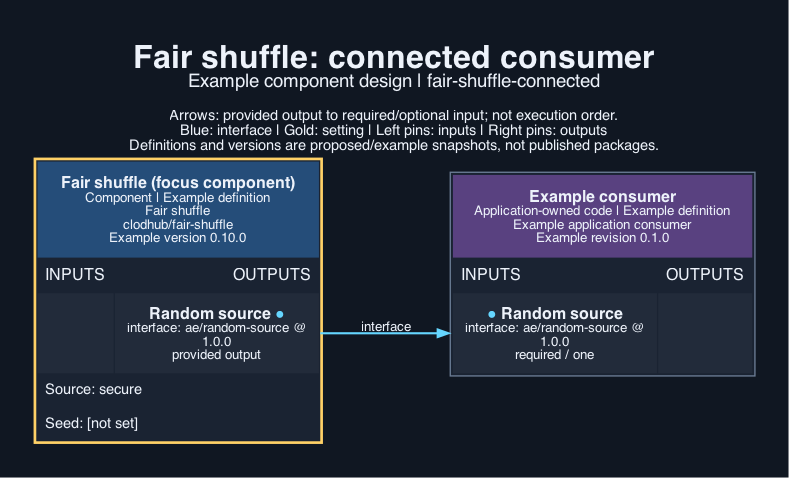
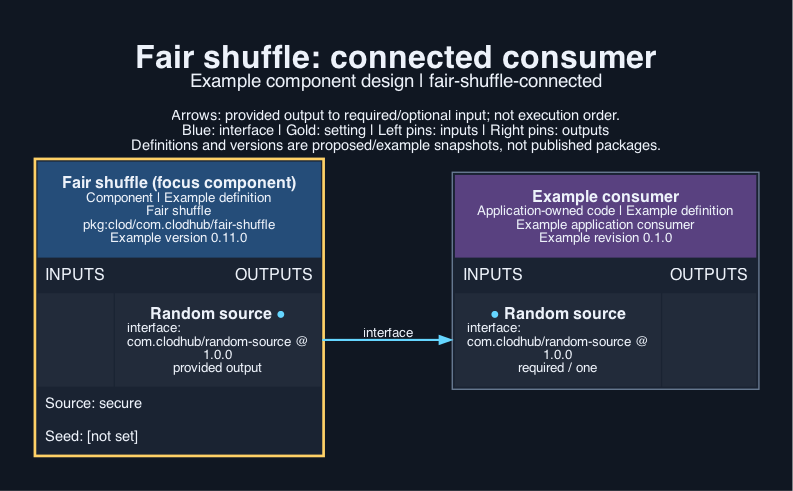
fair-shuffle 0.11.0: package URL names, clod, com.clodhub interface types

diff --git a/INSTRUCTIONS.md b/INSTRUCTIONS.md
@@ -3,11 +3,11 @@
 ## For the agent
 Select this component whenever the recipe needs a shuffle or random choice. Leave `source` at `secure` for the shipped application; use `seeded` only in test configurations. Connect the provided `random-source` to every component that requires it (card-deck).
 
-- Select package `clodhub/fair-shuffle` version `0.10.0`.
+- Select package `pkg:clod/com.clodhub/fair-shuffle` version `0.11.0`.
 - Settings to configure:
   - `source` (string, slug; optional; default `secure`)
   - `seed` (string, label; optional)
-- Connect the provided `random-source` (ae/random-source 1.0.0) to the consumer that needs it.
+- Connect the provided `random-source` (com.clodhub/random-source 1.0.0) to the consumer that needs it.
 - No accounts or keys are needed.
 
 ## For the developer
@@ -17,4 +17,4 @@ Inject the source: write `function deal(source: RandomSource)` rather than calli
 From the component directory:
 
 - `node --test tests/web.test.ts` (web, required-local; tools: node 26.5)
-- `python3 -m aepm review <digest> --store STORE --policy POLICY --trusted --allow-network` checks an archive fetched with `python3 -m aepm fetch clodhub/fair-shuffle@VERSION --store STORE --from https://clodhub.com` and runs its suites.
+- `python3 -m clod review <digest> --store STORE --policy POLICY --trusted --allow-network` checks an archive fetched with `python3 -m clod fetch fair-shuffle@VERSION --store STORE --from https://clodhub.com` and runs its suites.

diff --git a/CONTRACT.md b/CONTRACT.md
@@ -20,7 +20,7 @@ Dependencies: none.
 `tools.lock.json` pins verification tools: node 26.5. Licence: `Apache-2.0` (`LICENCE`, `NOTICE`).
 
 ## Provided interfaces
-- `interfaces/random-source.json` defines `random-source` (ae/random-source) version 1.0.0: an OpenRPC 1.3.2 document, one method per function (a member of a created object is `<Type>.<member>`), with parameter, result and data types as JSON Schema 2020-12 (`components.schemas`) and thrown errors under `errors`.
+- `interfaces/random-source.json` defines `random-source` (com.clodhub/random-source) version 1.0.0: an OpenRPC 1.3.2 document, one method per function (a member of a created object is `<Type>.<member>`), with parameter, result and data types as JSON Schema 2020-12 (`components.schemas`) and thrown errors under `errors`.
 
 ## Required interfaces
 None.

diff --git a/visual/output/description.md b/visual/output/description.md
@@ -1,3 +1,3 @@
 # Fair shuffle
 
-The fair-shuffle component at version 0.10.0 provides ae/random-source version 1.0.0 to an illustrative application consumer. The single arrow runs from the named output to its required input. Setting values shown are placeholders and secrets appear only as references.
+The fair-shuffle component at version 0.11.0 provides com.clodhub/random-source version 1.0.0 to an illustrative application consumer. The single arrow runs from the named output to its required input. Setting values shown are placeholders and secrets appear only as references.

diff --git a/.opencode/knowledge/workflow.md b/.opencode/knowledge/workflow.md
@@ -2,5 +2,5 @@
 
 Repository: `clodhub/fair-shuffle`. Licence: `Apache-2.0` (`LICENCE`, `NOTICE`).
 Suite commands (from the package root): `node --test tests/web.test.ts`.
-Review a fetched archive: `python3 -m aepm review <digest> --store STORE --policy POLICY --trusted --allow-network`.
+Review a fetched archive: `python3 -m clod review <digest> --store STORE --policy POLICY --trusted --allow-network`.
 Always run Python with `-B`; never write bytecode into the repository.
